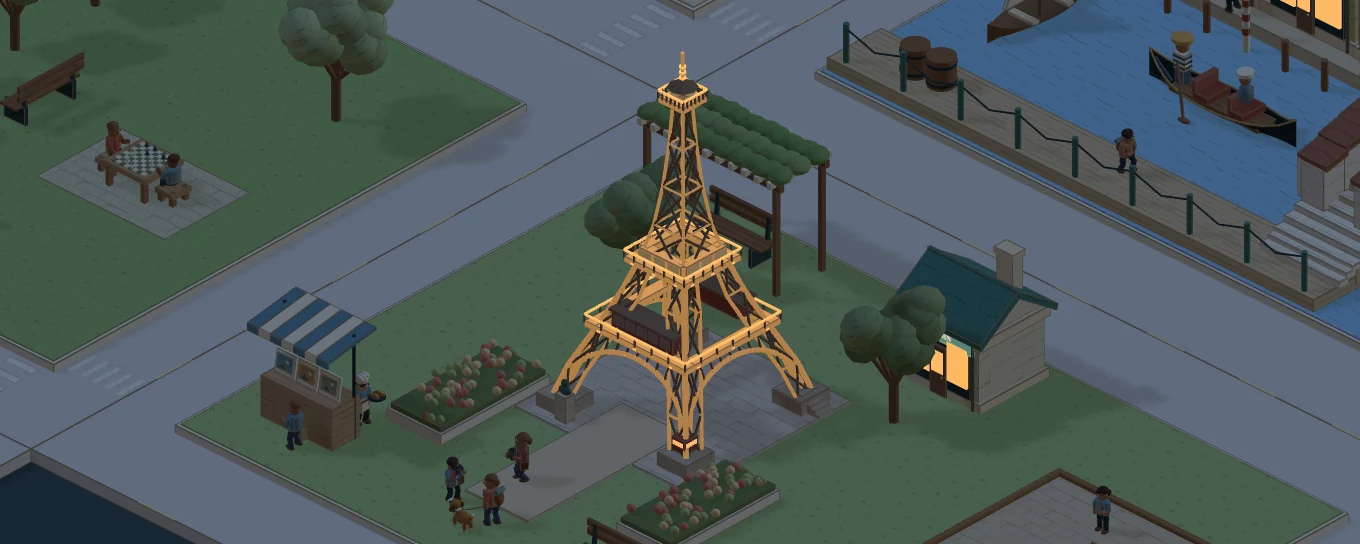
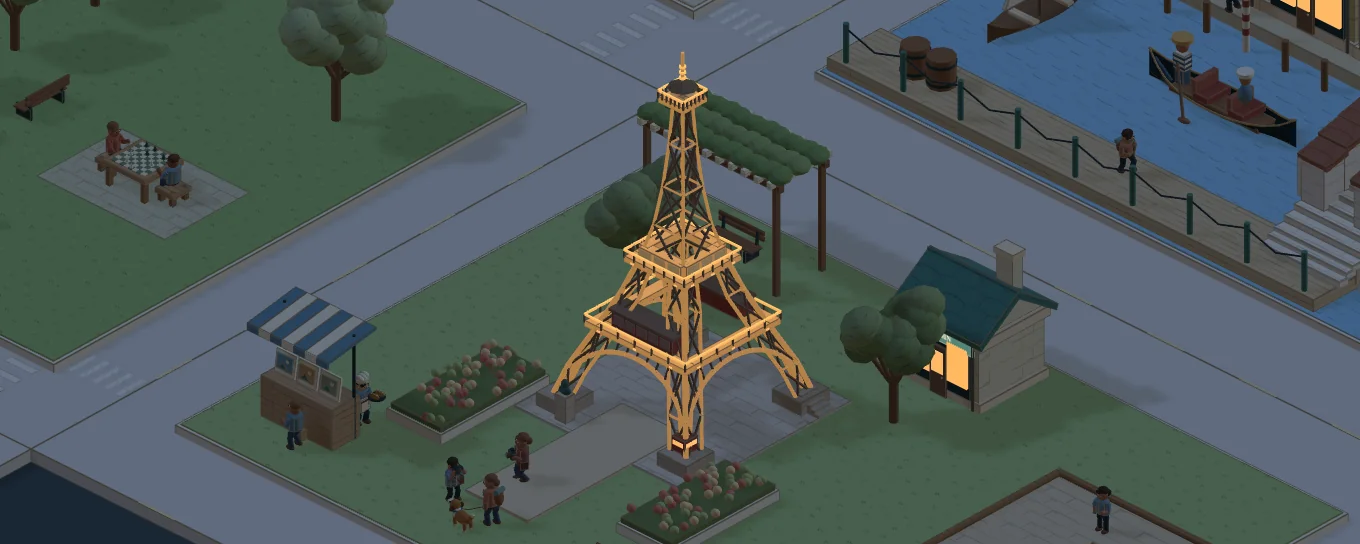
Bring street furniture to scale and drift cloud banks across Mauna Kea

Changed region(s): [[0.4941, 0.3438, 0.5868, 0.5], [0.0, 0.0938, 0.0618, 0.25], [0.4324, 0.9375, 0.4632, 1.0]]

diff --git a/src/components/photography/town/summit-sky.ts b/src/components/photography/town/summit-sky.ts
@@ -1,0 +1,86 @@
+import {
+  BufferGeometry, Color, Float32BufferAttribute, InstancedMesh, Matrix4, Mesh,
+  MeshBasicMaterial, MeshLambertMaterial, OctahedronGeometry,
+} from "three";
+import type { Model } from "./model";
+
+// A shallow scalloped shell. The pale crowns roll down to a blue-grey,
+// feathered skirt. The road and vehicles clip the shell in world space.
+function cloudRoll(phase: number) {
+  const positions: number[] = [], colors: number[] = [], indices: number[] = [];
+  const rings = 28, sides = 12;
+  const tint = new Color(), crown = new Color("#ecf3f5"), base = new Color("#96aabc");
+  for (let i = 0; i <= rings; i++) {
+    const u = i / rings, x = 2 * u - 1;
+    const taper = Math.sqrt(Math.max(0, 1 - x * x));
+    for (let j = 0; j < sides; j++) {
+      const a = 2 * Math.PI * j / sides, y = Math.sin(a), z = Math.cos(a);
+      const billow = 0.77 + 0.18 * Math.cos(17 * u + phase + 1.2 * z) + 0.09 * Math.cos(33 * u - z);
+      const height = y > 0 ? y * billow : y * 0.32;
+      positions.push(x, taper * height, taper * z * billow + 0.14 * Math.sin(7 * u + phase));
+      tint.copy(base).lerp(crown, Math.min(1, Math.max(0, 0.48 + 0.56 * y + 0.1 * billow)));
+      colors.push(tint.r, tint.g, tint.b, taper * (0.71 + 0.26 * Math.max(0, y)));
+      if (i === rings) continue;
+      const left = i * sides + j, next = i * sides + (j + 1) % sides;
+      indices.push(left, left + sides, next, next, left + sides, next + sides);
+    }
+  }
+  const geometry = new BufferGeometry();
+  geometry.setAttribute("position", new Float32BufferAttribute(positions, 3));
+  geometry.setAttribute("color", new Float32BufferAttribute(colors, 4));
+  geometry.setIndex(indices);
+  geometry.computeVertexNormals();
+  return geometry;
+}
+
+export function summitSky(m: Model) {
+  const sky = m.group(0, 0, 0);
+  const mist = new MeshLambertMaterial({ vertexColors: true, transparent: true, depthWrite: false });
+  // Overlapping shoals across the lower switchback. Keep a clear approach
+  // below them and let the grade carry each roof out above the deck.
+  const banks = [
+    [-3.08, 1.43, 2.83, 1.95, 0.47, 1.02, -0.21],
+    [-0.03, 1.49, 2.49, 2.53, 0.55, 1.15, 0.22],
+    [2.94, 1.45, 2.12, 1.85, 0.44, 0.94, 0.39],
+    [-2.11, 1.36, 3.55, 2.31, 0.39, 0.94, -0.31],
+    [1.50, 1.43, 2.99, 1.42, 0.38, 0.77, 0.21],
+    [-3.21, 1.26, 4.06, 1.36, 0.21, 0.55, -0.08],
+  ].map(([x, y, z, width, height, depth, turn], i) => {
+    const mesh = new Mesh(cloudRoll(i * 1.71), mist);
+    mesh.position.set(x, y, z);
+    mesh.rotation.y = turn;
+    mesh.scale.set(width, height, depth);
+    sky.add(mesh);
+    return { mesh, x, z };
+  });
+
+  // Tiny solid flecks read from either side when the visitor orbits.
+  const stars = [
+    [-3.9, 4.9, -1.8, .026], [-3.3, 5.62, -2.65, .042], [-2.78, 5.34, -3.12, .021],
+    [-2.29, 5.89, -2.97, .032], [-1.62, 5.08, -3.86, .024], [-.96, 5.72, -2.2, .041],
+    [-.45, 6.14, -3.08, .023], [.36, 5.25, -3.47, .029], [1.12, 5.82, -3.64, .038],
+    [1.78, 5.39, -3.14, .021], [2.36, 5.59, -2.46, .026], [3.32, 4.94, -3.25, .033],
+  ];
+  const ink = new MeshBasicMaterial({ color: "#e4e2cc", transparent: true, depthWrite: false });
+  const field = new InstancedMesh(new OctahedronGeometry(1), ink, stars.length);
+  const matrix = new Matrix4();
+  stars.forEach(([x, y, z, r], i) => {
+    field.setMatrixAt(i, matrix.makeScale(r, 1.42 * r, r).setPosition(x, y, z));
+  });
+  sky.add(field);
+  m.choreographies.push(t => {
+    for (const [i, { mesh, x, z }] of banks.entries()) {
+      const phase = t * 0.12 + i * 0.58;
+      mesh.position.x = x + 0.57 * Math.sin(phase);
+      mesh.position.z = z + 0.12 * Math.sin(phase * 0.77);
+    }
+    ink.opacity = 0.83 * Math.max(0, 1 - 1.75 * m.wash.value);
+    field.visible = ink.opacity > 0.001;
+  });
+  m.onDispose.push(() => {
+    for (const { mesh } of banks) mesh.geometry.dispose();
+    mist.dispose();
+    field.geometry.dispose();
+    ink.dispose();
+  });
+}

diff --git a/src/components/photography/town/streets.ts b/src/components/photography/town/streets.ts
@@ -217,19 +217,26 @@ export function streets(m: Model) {
       form("round", x, y - 0.13, z, 0.145, 0.17, 0.145, "bulb");
     }
   }
+  // Chairs, patrons and the cup gesture share the same pavement-relative frame.
+  function terrace(x: number, z: number) {
+    const g = group(x, 0.068, z);
+    g.scale.setScalar(0.69);
+    return g;
+  }
   function table(x: number, z: number, color: string) {
-    form("drum", x, 0.4, z, 0.09, 0.8, 0.09, iron);
-    form("drum", x, 0.68, z, 0.78, 0.1, 0.78, wood);
-    form("drum", x, 1.05, z, 0.055, 0.9, 0.055, wood);
-    form("cone", x, 1.67, z, 1.48, 0.35, 1.48, color);
+    const g = terrace(x, z);
+    form("drum", 0, 0.34, 0, 0.09, 0.68, 0.09, iron, g);
+    form("drum", 0, 0.68, 0, 0.78, 0.1, 0.78, wood, g);
+    form("drum", 0, 1.14, 0, 0.055, 0.94, 0.055, wood, g);
+    form("cone", 0, 1.67, 0, 1.48, 0.35, 1.48, color, g);
     for (const side of [-1, 1]) {
-      form("box", x + side * 0.62, 0.28, z, 0.36, 0.12, 0.4, wood);
-      form("box", x + side * 0.78, 0.52, z, 0.08, 0.4, 0.39, wood);
-      form("box", x + side * 0.62, 0.14, z, 0.13, 0.28, 0.16, iron);
+      form("box", side * 0.62, 0.28, 0, 0.36, 0.12, 0.4, wood, g);
+      form("box", side * 0.78, 0.52, 0, 0.08, 0.4, 0.39, wood, g);
+      form("box", side * 0.62, 0.14, 0, 0.13, 0.28, 0.16, iron, g);
     }
   }
   function patron(x: number, z: number, side: number, shirt: string, phase: number) {
-    const seat = group(x + side * 0.62, 0, z);
+    const seat = group(side * 0.62, 0, 0, terrace(x, z));
     seat.rotation.y = (-side * Math.PI) / 2;
     form("round", 0, 0.57, 0, 0.31, 0.48, 0.24, shirt, seat);
     form("round", 0, 0.91, 0, 0.24, 0.27, 0.24, "#bf8d72", seat);
@@ -252,7 +259,7 @@ export function streets(m: Model) {
     beam([-0.12, 0.69, 0], [-0.17, 0.5, 0.04], 0.10, shirt, seat);
     beam([-0.17, 0.5, 0.04], [-0.06, 0.45, 0.14], 0.078, "#bf8d72", seat);
     for (const dx of [-0.08, 0.08])
-      form("round", dx, 0.093, 0.245, 0.12, 0.09, 0.17, wood, seat);
+      form("round", dx, 0.047, 0.245, 0.12, 0.09, 0.17, wood, seat);
     const arm = group(0.14, 0.69, 0.02, seat);
     arm.userData.moving = true;
     beam([0, 0, 0], [0.02, -0.12, 0.1], 0.09, shirt, arm);

diff --git a/src/components/photography/town/neighborhood.ts b/src/components/photography/town/neighborhood.ts
@@ -13,7 +13,8 @@ export function neighborhood(m: Model, street: ReturnType<typeof streets>) {
   const { group, form, beam, sign } = m;
   const { house, person } = street;
   function bench(x: number, z: number, turn = 0) {
-    const g = group(x, 0.09, z);
+    const g = group(x, 0.068, z);
+    g.scale.set(0.66, 0.62, 0.71);
     g.rotation.y = turn;
     for (const dx of [-0.55, 0.55]) {
       form("box", dx, 0.17, 0, 0.07, 0.34, 0.46, ink, g);
@@ -23,7 +24,8 @@ export function neighborhood(m: Model, street: ReturnType<typeof streets>) {
     for (const y of [0.56, 0.72]) form("planks", 0, y, -0.23, 1.47, 0.12, 0.055, timber, g);
   }
   function cycle(x: number, z: number, turn = 0) {
-    const g = group(x, 0.09, z);
+    const g = group(x, 0.064, z);
+    g.scale.setScalar(0.77);
     g.rotation.y = turn;
     for (const dx of [-0.36, 0.36]) {
       form("rim", dx, 0.25, 0, 0.47, 0.47, 0.44, ink, g);

diff --git a/src/components/photography/town/maunakea.ts b/src/components/photography/town/maunakea.ts
@@ -1,4 +1,5 @@
 import { Matrix4, Vector3 } from "three";
+import { summitSky } from "./summit-sky";
 import { vehicle } from "./vehicles";
 import { ease } from "./motion";
 import { hillside } from "./landscape";
@@ -43,6 +44,7 @@ export function maunakea(m: Model) {
     },
   );
   lane(road, -2.15, 5.31, roadWidth, "#c7b7a8");
+  summitSky(m);
   summitTraffic(m, road, roadScale, laneHeight, grade);
   lane((x) => 1.45 - 0.32 * (x - road(1.45)), road(1.45), 2.76, 0.4, "#c7b7a8", "x");
   for (const [x, z, r] of [

diff --git a/src/components/photography/town/model.ts b/src/components/photography/town/model.ts
@@ -356,7 +356,9 @@ export function model() {
     }
     batches.clear();
   }
+  const onDispose: (() => void)[] = [];
   function dispose() {
+    for (const cleanup of onDispose) cleanup();
     root.traverse((obj) => {
       if (obj instanceof T.InstancedMesh) obj.dispose();
     });
@@ -399,6 +401,7 @@ export function model() {
     sign,
     finish,
     dispose,
+    onDispose,
     random,
     lit,
     bulb,
